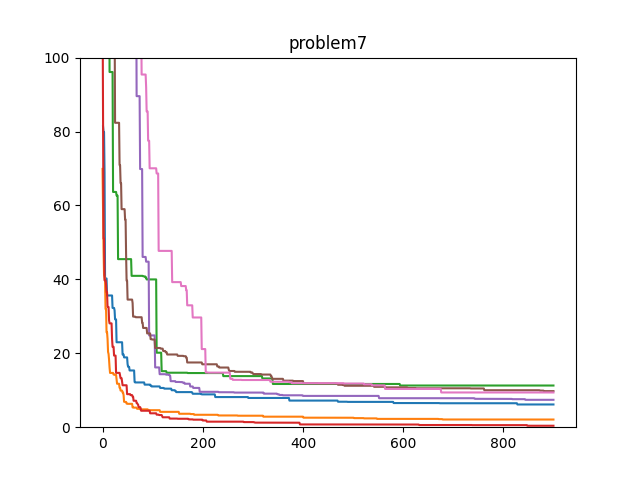
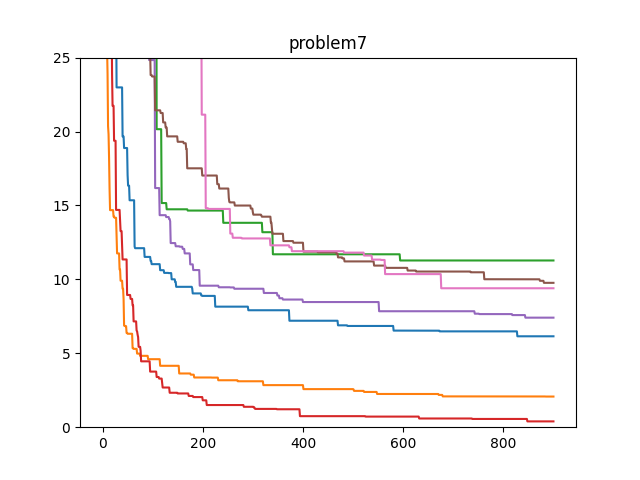
Update resolution on yaxis

diff --git a/visualisation/plot_objective_history.py b/visualisation/plot_objective_history.py
@@ -83,7 +83,7 @@ def plot_best(step=1, mode="gap"):
         y_values = gap_list if mode == "gap" else best_list
 
         if mode == "gap":
-            plt.ylim(0, 100)
+            plt.ylim(0, 25)
 
         plt.plot(times, y_values, markersize=6)
         plt.title(problem)
